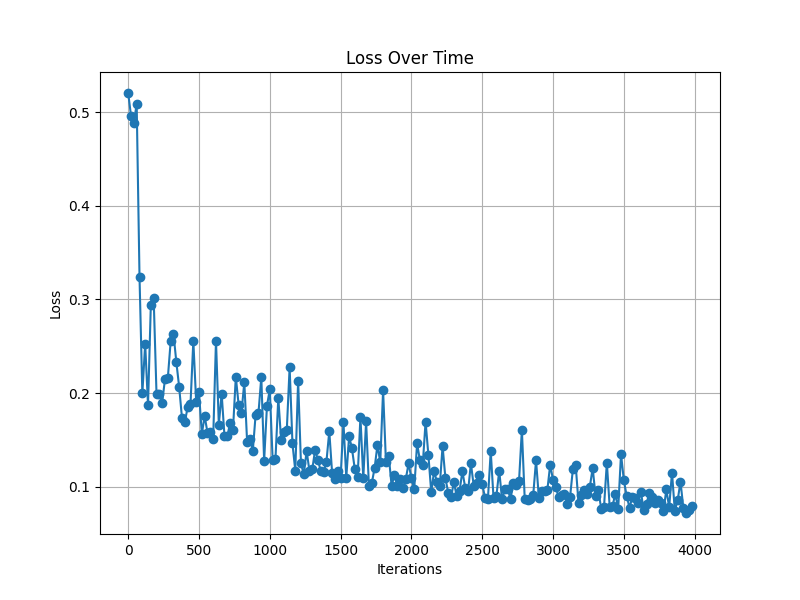
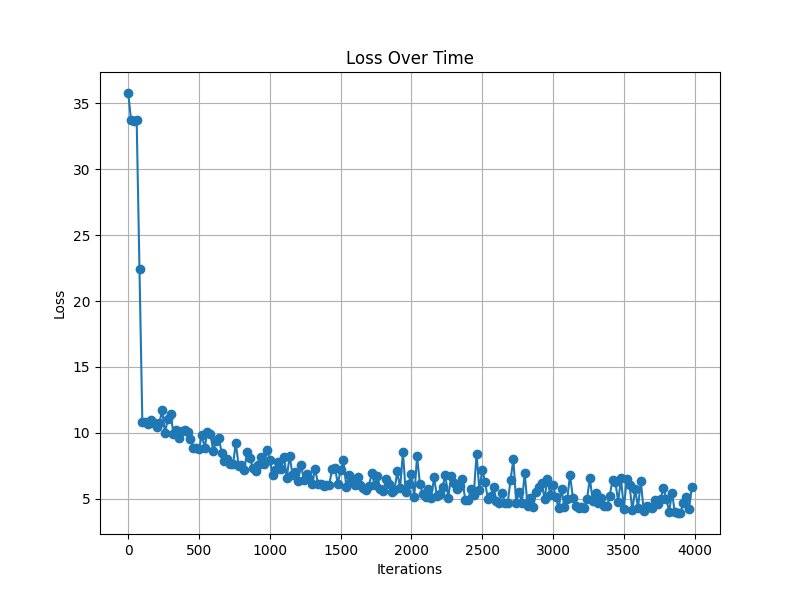
Added generalisation test

diff --git a/application_examples/simple_systems/linearODE.py b/application_examples/simple_systems/linearODE.py
@@ -88,6 +88,8 @@ def get_batch():
 
 # This function plots the results of the simulation
 def visualize(true_y, pred_y, odefunc, itr):
+    # Starting point largest coordinate
+    max_coord = torch.max(true_y0).item() # This works in this example because it is contractive
 
     if args.viz:
         ax_traj.cla()
@@ -99,7 +101,7 @@ def visualize(true_y, pred_y, odefunc, itr):
         ax_traj.plot(t.cpu().numpy(), pred_y.cpu().numpy()[:, 0, 0], 'y--', label="Predicted x")
         ax_traj.plot(t.cpu().numpy(), pred_y.cpu().numpy()[:, 0, 1], 'c--', label="Predicted y")
         ax_traj.set_xlim(t.cpu().min(), t.cpu().max())
-        ax_traj.set_ylim(-2, 2)
+        ax_traj.set_ylim(-max_coord, max_coord)
         ax_traj.legend()
 
         ax_phase.cla()
@@ -108,8 +110,8 @@ def visualize(true_y, pred_y, odefunc, itr):
         ax_phase.set_ylabel('y')
         ax_phase.plot(true_y.cpu().numpy()[:, 0, 0], true_y.cpu().numpy()[:, 0, 1], 'g-', label="True")
         ax_phase.plot(pred_y.cpu().numpy()[:, 0, 0], pred_y.cpu().numpy()[:, 0, 1], 'y--', label="Predicted")
-        ax_phase.set_xlim(-2, 2)
-        ax_phase.set_ylim(-2, 2)
+        ax_phase.set_xlim(-max_coord, max_coord)
+        ax_phase.set_ylim(-max_coord, max_coord)
         ax_phase.legend()
 
         ax_vecfield.cla()
@@ -117,30 +119,34 @@ def visualize(true_y, pred_y, odefunc, itr):
         ax_vecfield.set_xlabel('x')
         ax_vecfield.set_ylabel('y')
 
-        y, x = np.mgrid[-2:2:21j, -2:2:21j]
+        y, x = np.mgrid[-max_coord:max_coord:21j, -max_coord:max_coord:21j]
         dydt = odefunc(0, torch.Tensor(np.stack([x, y], -1).reshape(21 * 21, 2)).to(device)).cpu().detach().numpy()
         mag = np.sqrt(dydt[:, 0] ** 2 + dydt[:, 1] ** 2).reshape(-1, 1)
         dydt = (dydt / mag)  # el fa unitari
         dydt = dydt.reshape(21, 21, 2)
 
         ax_vecfield.streamplot(x, y, dydt[:, :, 0], dydt[:, :, 1], color="black")
-        ax_vecfield.set_xlim(-2, 2)
-        ax_vecfield.set_ylim(-2, 2)
+        ax_vecfield.set_xlim(-max_coord, max_coord)
+        ax_vecfield.set_ylim(-max_coord, max_coord)
 
         fig.tight_layout()
-        plt.savefig(args.dirname + '/{:03d}'.format(itr))
+        if itr == -1:
+            plt.savefig(args.dirname + '/generalisation')
+        else:
+            plt.savefig(args.dirname + '/{:03d}'.format(itr))
         plt.draw()
         plt.pause(0.001)
 
 
 def plot_learning_curve(losses):
-    plt.figure(figsize=(8, 6))
+    fig2 = plt.figure(figsize=(8, 6))
+    ax = fig2.add_subplot(111)
     time_intervals = list(range(0, args.niters, args.test_freq))
-    plt.plot(time_intervals, losses, marker='o', linestyle='-')
-    plt.title('Loss Over Time')
-    plt.xlabel('Iterations')
-    plt.ylabel('Loss')
-    plt.grid(True)
+    ax.plot(time_intervals, losses, marker='o', linestyle='-')
+    ax.set_title('Loss Over Time')
+    ax.set_xlabel('Iterations')
+    ax.set_ylabel('Loss')
+    ax.grid(True)
     plt.draw()
     plt.pause(2)
     plt.savefig(args.dirname + '/learning_curve')
@@ -179,22 +185,34 @@ if __name__ == '__main__':
     img_counter = 0
     losses = []
 
+    # Training loop
     for itr in range(1, args.niters + 1):
         optimizer.zero_grad()
         batch_y0, batch_t, batch_y = get_batch()
-        pred_y = odeint(func, batch_y0, batch_t, method=args.method).to(device) # Forward pass amb el batch, resolent IVP amb el model de la ODE-Net
-        loss = torch.mean(torch.abs(pred_y - batch_y))  # Calcula la loss
-        loss.backward() # Backward pass
+        pred_y = odeint(func, batch_y0, batch_t, method=args.method).to(device)
+        loss = torch.norm(pred_y - batch_y)
+        loss.backward()
         optimizer.step()
 
+        # Visualise training process
         if itr % args.test_freq == 0:
             with torch.no_grad():
                 pred_y = odeint(func, true_y0, t, method=args.method)
-                loss = torch.mean(torch.abs(pred_y - true_y))
+                loss = torch.norm(pred_y - true_y)
                 losses.append(loss.item())
                 print('Iter {:04d} | Total Loss {:.6f}'.format(itr, loss.item()))
                 visualize(true_y, pred_y, func, img_counter)
                 img_counter += 1
 
+    """ Testing the generalization of the model"""
+    t = torch.linspace(0., 2 * args.terminal_time, 2*args.data_size).to(device)
+    with torch.no_grad():
+        true_y = odeint(lambda_func, true_y0, t, method=args.method)
+        pred_y = odeint(func, true_y0, t, method=args.method)
+        loss = torch.sum(torch.abs(pred_y - true_y))
+        print('Total difference between predicted and real {:.6f}'.format(loss.item()))
+        visualize(true_y, pred_y, func, -1)
+
+    """ Visualise the learning process """
     create_gif(args.dirname + '/linearODE.gif')
     plot_learning_curve(losses)
